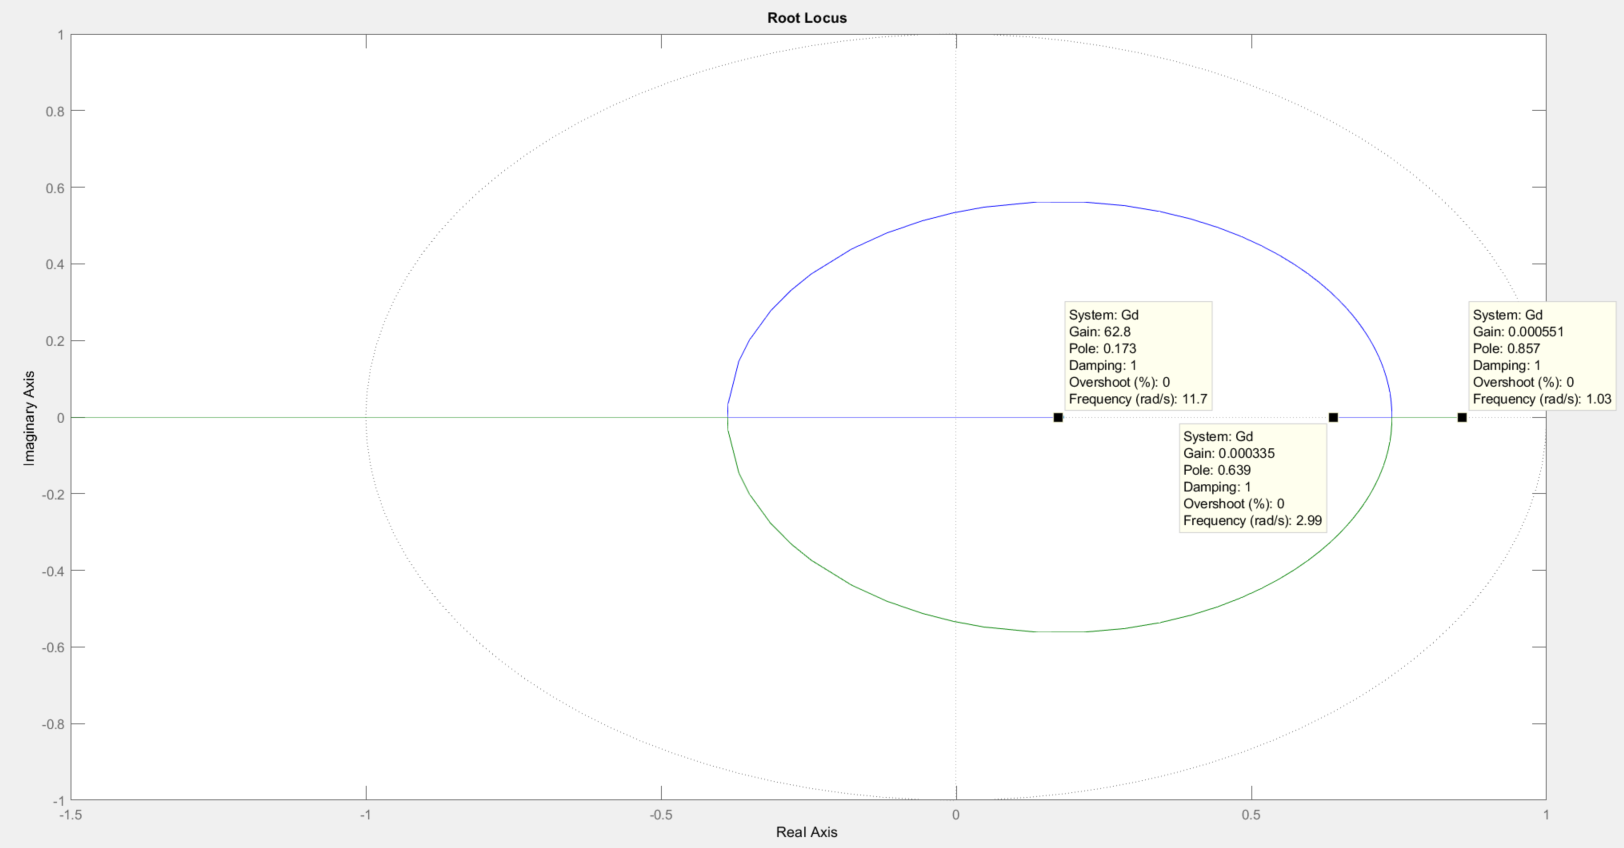
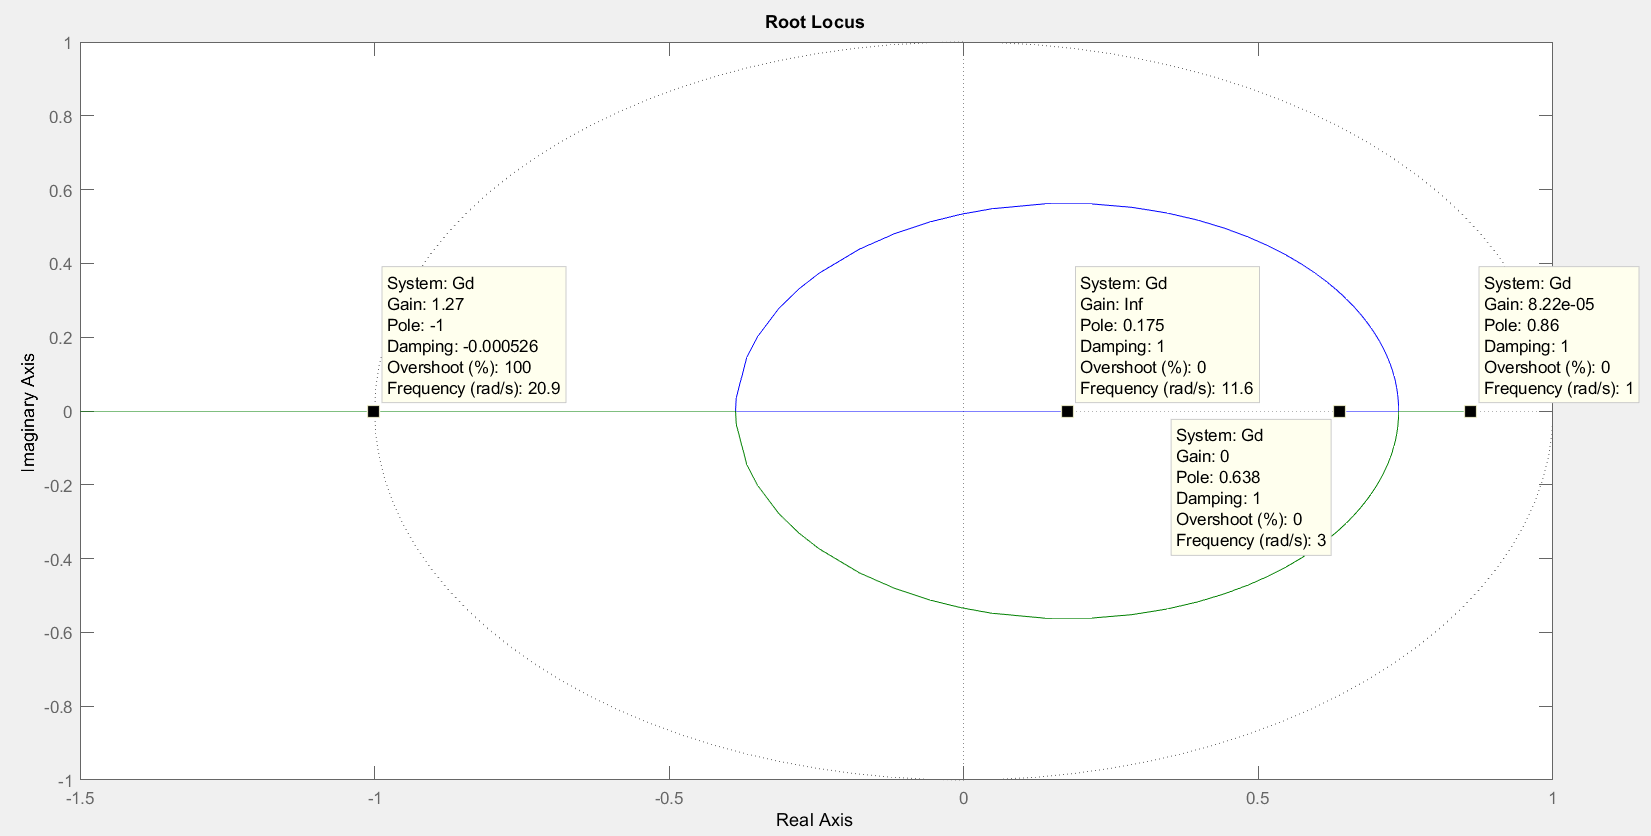
Conclusiones

diff --git a/Tareas_Laboret/Tarea_N1/Scarlatto_Manuel_Tarea_n°1.md b/Tareas_Laboret/Tarea_N1/Scarlatto_Manuel_Tarea_n°1.md
@@ -294,7 +294,7 @@ figure('Name', 'Lugar de Raices - FT Tiempo Discreto (10xTm)'),rlocus(Gd1);
 
 ![LR_FT_TC](Imagenes_TP1/LR_FT_TC.png)
 
-La gráfica muestra el lugar de raíces del sistema continuo G(s), con los polos iniciales en -2 y -1, y el cero en -10.
+La gráfica muestra el lugar de raíces del sistema continuo G(s), con los polos iniciales en -3 y -1, y el cero en -10.
 - Ganancia Crítica de Estabilidad:
   - En el sistema continuo, la estabilidad depende de que los polos permanezcan en el semiplano izquierdo (eje real negativo).
   - Ganancia Crítica: Infinita, ya que los polos siempre permanecen en el semiplano izquierdo.
@@ -307,7 +307,7 @@ La gráfica muestra el lugar de raíces del sistema discreto $G_D(s)$, con los p
 
 - Ganancia Crítica de Estabilidad:
   - En el sistema discreto, la estabilidad depende de que los polos permanezcan dentro del círculo unitario.
-  - Existe una ganancia crítica aproximadamente de 1.14, según los datos mostrados en la gráfica.
+  - Existe una ganancia crítica aproximadamente de 1.27, según los datos mostrados en la gráfica.
 
 ### ¿ Que ocurre con la estabilidad relativa si se aumenta 10 veces el tiempo de muestreo original ?
 

diff --git a/Tareas_Laboret/Tarea_N3/Scarlatto_Manuel_Tarea_n°3.md b/Tareas_Laboret/Tarea_N3/Scarlatto_Manuel_Tarea_n°3.md
@@ -28,7 +28,7 @@ Se dispondrá para cada alumno una tabla con valores de masa (m), longitud (1), 
 
 $$ml^2 \ddot{\theta} + b\dot{\theta} + mgl\sin(\theta) = T$$
 
-Se desea que el péndulo se estabilice en el ángulo \( \delta \) dado, tomando como estados, entrada y salida respectivamente (nótese que se ha desplazado el punto de equilibrio al origen, tomando el error como salida):
+Se desea que el péndulo se estabilice en el ángulo ( $\delta$ ) dado, tomando como estados, entrada y salida respectivamente (nótese que se ha desplazado el punto de equilibrio al origen, tomando el error como salida):
 
 
 
